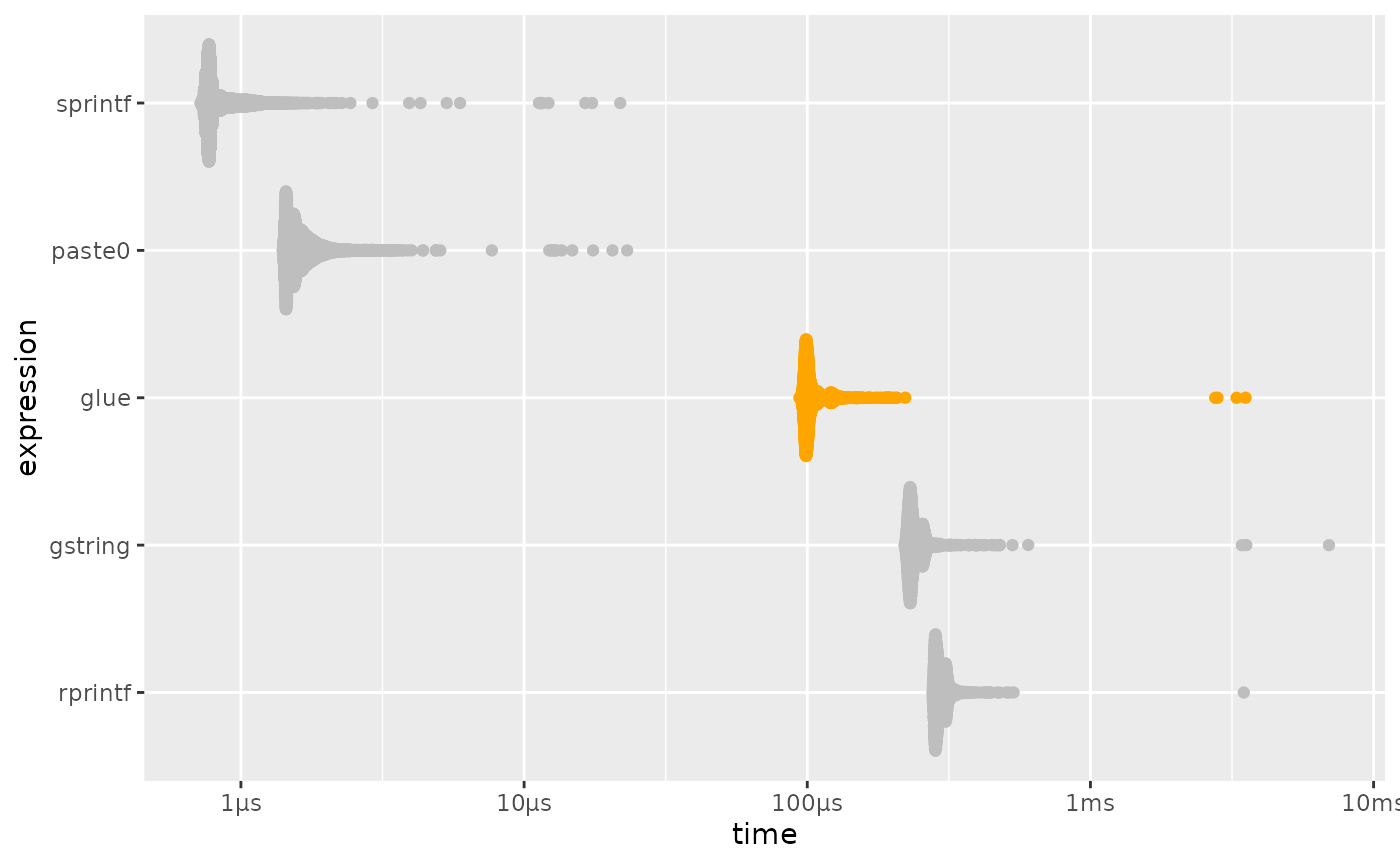
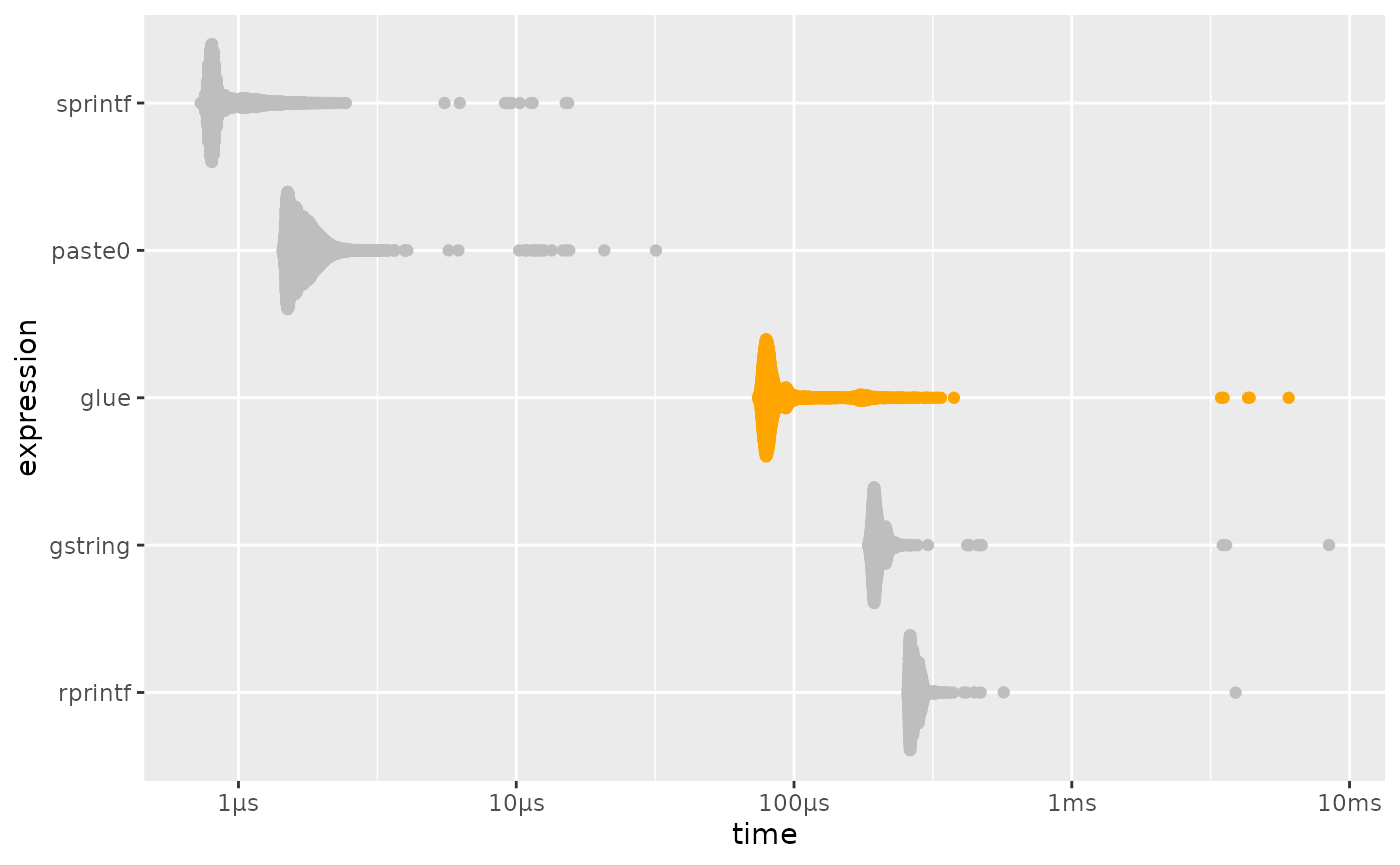
Deploying to gh-pages from @ tidyverse/glue@c6ecadb5d934827fc5afdf989714b82bf9872267 🚀

diff --git a/articles/speed.html b/articles/speed.html
@@ -87,7 +87,7 @@
       <img src="../logo.png" class="logo" alt=""><h1>Speed of glue</h1>
             
       
-      <small class="dont-index">Source: <a href="https://github.com/tidyverse/glue/blob/main/vignettes/articles/speed.Rmd" class="external-link"><code>vignettes/articles/speed.Rmd</code></a></small>
+      <small class="dont-index">Source: <a href="https://github.com/tidyverse/glue/blob/v1.8.1/vignettes/articles/speed.Rmd" class="external-link"><code>vignettes/articles/speed.Rmd</code></a></small>
       <div class="d-none name"><code>speed.Rmd</code></div>
     </div>
 
@@ -155,11 +155,11 @@ this benchmark, but is now formally marked as “superseded”, in favor of
 <span><span class="co">#&gt; <span style="color: #949494;"># A tibble: 5 × 6</span></span></span>
 <span><span class="co">#&gt;   expression      min   median `itr/sec` mem_alloc `gc/sec`</span></span>
 <span><span class="co">#&gt;   <span style="color: #949494; font-style: italic;">&lt;bch:expr&gt;</span> <span style="color: #949494; font-style: italic;">&lt;bch:tm&gt;</span> <span style="color: #949494; font-style: italic;">&lt;bch:tm&gt;</span>     <span style="color: #949494; font-style: italic;">&lt;dbl&gt;</span> <span style="color: #949494; font-style: italic;">&lt;bch:byt&gt;</span>    <span style="color: #949494; font-style: italic;">&lt;dbl&gt;</span></span></span>
-<span><span class="co">#&gt; <span style="color: #BCBCBC;">1</span> sprintf     721.1ns 781.15ns  1<span style="text-decoration: underline;">162</span>959.        0B     0   </span></span>
-<span><span class="co">#&gt; <span style="color: #BCBCBC;">2</span> paste0        1.4µs   1.56µs   <span style="text-decoration: underline;">604</span>291.        0B     0   </span></span>
-<span><span class="co">#&gt; <span style="color: #BCBCBC;">3</span> glue         93.9µs 100.34µs     <span style="text-decoration: underline;">9</span>599.  141.56KB     8.21</span></span>
-<span><span class="co">#&gt; <span style="color: #BCBCBC;">4</span> gstring     220.6µs 235.19µs     <span style="text-decoration: underline;">4</span>112.    2.43MB     6.17</span></span>
-<span><span class="co">#&gt; <span style="color: #BCBCBC;">5</span> rprintf     276.8µs 289.83µs     <span style="text-decoration: underline;">3</span>361.  504.06KB     2.01</span></span>
+<span><span class="co">#&gt; <span style="color: #BCBCBC;">1</span> sprintf    731.09ns 820.96ns  1<span style="text-decoration: underline;">098</span>310.        0B     0   </span></span>
+<span><span class="co">#&gt; <span style="color: #BCBCBC;">2</span> paste0       1.44µs   1.67µs   <span style="text-decoration: underline;">573</span>123.        0B     0   </span></span>
+<span><span class="co">#&gt; <span style="color: #BCBCBC;">3</span> glue        74.15µs  81.19µs    <span style="text-decoration: underline;">10</span>860.  141.56KB    10.5 </span></span>
+<span><span class="co">#&gt; <span style="color: #BCBCBC;">4</span> gstring    184.99µs 197.57µs     <span style="text-decoration: underline;">4</span>946.    2.43MB     6.19</span></span>
+<span><span class="co">#&gt; <span style="color: #BCBCBC;">5</span> rprintf    256.09µs 269.32µs     <span style="text-decoration: underline;">3</span>657.  504.06KB     2.02</span></span>
 <span></span>
 <span><span class="co"># plotting function defined in a hidden chunk</span></span>
 <span><span class="fu">plot_comparison</span><span class="op">(</span><span class="va">simple</span><span class="op">)</span></span></code></pre></div>
@@ -202,11 +202,11 @@ performance is much closer to that of <code><a href="https://rdrr.io/r/base/past
 <span><span class="co">#&gt; <span style="color: #949494;"># A tibble: 5 × 6</span></span></span>
 <span><span class="co">#&gt;   expression      min   median `itr/sec` mem_alloc `gc/sec`</span></span>
 <span><span class="co">#&gt;   <span style="color: #949494; font-style: italic;">&lt;bch:expr&gt;</span> <span style="color: #949494; font-style: italic;">&lt;bch:tm&gt;</span> <span style="color: #949494; font-style: italic;">&lt;bch:tm&gt;</span>     <span style="color: #949494; font-style: italic;">&lt;dbl&gt;</span> <span style="color: #949494; font-style: italic;">&lt;bch:byt&gt;</span>    <span style="color: #949494; font-style: italic;">&lt;dbl&gt;</span></span></span>
-<span><span class="co">#&gt; <span style="color: #BCBCBC;">1</span> sprintf      8.37ms   8.39ms     119.    781.3KB     4.17</span></span>
-<span><span class="co">#&gt; <span style="color: #BCBCBC;">2</span> paste0       8.41ms   8.44ms     118.    781.3KB     4.13</span></span>
-<span><span class="co">#&gt; <span style="color: #BCBCBC;">3</span> gstring     11.39ms  11.55ms      85.7    1.53MB     6.43</span></span>
-<span><span class="co">#&gt; <span style="color: #BCBCBC;">4</span> glue        12.57ms  12.93ms      77.6    2.29MB     7.05</span></span>
-<span><span class="co">#&gt; <span style="color: #BCBCBC;">5</span> rprintf     33.09ms  33.34ms      29.8    3.05MB     2.13</span></span>
+<span><span class="co">#&gt; <span style="color: #BCBCBC;">1</span> sprintf      8.81ms   8.86ms     112.    781.3KB     4.21</span></span>
+<span><span class="co">#&gt; <span style="color: #BCBCBC;">2</span> paste0        9.3ms   9.47ms     106.    781.3KB     2.04</span></span>
+<span><span class="co">#&gt; <span style="color: #BCBCBC;">3</span> gstring     11.98ms  12.51ms      80.0    1.53MB     6.49</span></span>
+<span><span class="co">#&gt; <span style="color: #BCBCBC;">4</span> glue         12.3ms  12.81ms      77.8    2.29MB     7.07</span></span>
+<span><span class="co">#&gt; <span style="color: #BCBCBC;">5</span> rprintf     29.06ms  29.18ms      33.9    3.05MB     4.52</span></span>
 <span></span>
 <span><span class="co"># plotting function defined in a hidden chunk</span></span>
 <span><span class="fu">plot_comparison</span><span class="op">(</span><span class="va">vectorized</span><span class="op">)</span></span></code></pre></div>

diff --git a/reference/glue_collapse.html b/reference/glue_collapse.html
@@ -55,7 +55,7 @@ object rather than a glue object."><meta property="og:image" content="https://gl
 <div class="row">
   <main id="main" class="col-md-9"><div class="page-header">
       <img src="../logo.png" class="logo" alt=""><h1>Collapse a character vector</h1>
-      <small class="dont-index">Source: <a href="https://github.com/tidyverse/glue/blob/main/R/glue.R" class="external-link"><code>R/glue.R</code></a>, <a href="https://github.com/tidyverse/glue/blob/main/R/sql.R" class="external-link"><code>R/sql.R</code></a></small>
+      <small class="dont-index">Source: <a href="https://github.com/tidyverse/glue/blob/v1.8.1/R/glue.R" class="external-link"><code>R/glue.R</code></a>, <a href="https://github.com/tidyverse/glue/blob/v1.8.1/R/sql.R" class="external-link"><code>R/sql.R</code></a></small>
       <div class="d-none name"><code>glue_collapse.Rd</code></div>
     </div>
 

diff --git a/reference/glue-package.html b/reference/glue-package.html
@@ -53,7 +53,7 @@ An implementation of interpreted string literals, inspired by Python's Literal S
 <div class="row">
   <main id="main" class="col-md-9"><div class="page-header">
       <img src="../logo.png" class="logo" alt=""><h1>glue: Interpreted String Literals</h1>
-      <small class="dont-index">Source: <a href="https://github.com/tidyverse/glue/blob/main/R/glue-package.R" class="external-link"><code>R/glue-package.R</code></a></small>
+      <small class="dont-index">Source: <a href="https://github.com/tidyverse/glue/blob/v1.8.1/R/glue-package.R" class="external-link"><code>R/glue-package.R</code></a></small>
       <div class="d-none name"><code>glue-package.Rd</code></div>
     </div>
 

diff --git a/reference/identity_transformer.html b/reference/identity_transformer.html
@@ -53,7 +53,7 @@ transformer."><meta property="og:image" content="https://glue.tidyverse.org/logo
 <div class="row">
   <main id="main" class="col-md-9"><div class="page-header">
       <img src="../logo.png" class="logo" alt=""><h1>Parse and Evaluate R code</h1>
-      <small class="dont-index">Source: <a href="https://github.com/tidyverse/glue/blob/main/R/transformer.R" class="external-link"><code>R/transformer.R</code></a></small>
+      <small class="dont-index">Source: <a href="https://github.com/tidyverse/glue/blob/v1.8.1/R/transformer.R" class="external-link"><code>R/transformer.R</code></a></small>
       <div class="d-none name"><code>identity_transformer.Rd</code></div>
     </div>
 

diff --git a/CODE_OF_CONDUCT.html b/CODE_OF_CONDUCT.html
@@ -51,7 +51,7 @@
 <div class="row">
   <main id="main" class="col-md-9"><div class="page-header">
       <img src="logo.png" class="logo" alt=""><h1>Contributor Covenant Code of Conduct</h1>
-      <small class="dont-index">Source: <a href="https://github.com/tidyverse/glue/blob/main/.github/CODE_OF_CONDUCT.md" class="external-link"><code>.github/CODE_OF_CONDUCT.md</code></a></small>
+      <small class="dont-index">Source: <a href="https://github.com/tidyverse/glue/blob/v1.8.1/.github/CODE_OF_CONDUCT.md" class="external-link"><code>.github/CODE_OF_CONDUCT.md</code></a></small>
     </div>
 
 <div id="contributor-covenant-code-of-conduct" class="section level1">

diff --git a/reference/glue_sql.html b/reference/glue_sql.html
@@ -85,7 +85,7 @@ SQL IN Operator."><meta property="og:image" content="https://glue.tidyverse.org/
 <div class="row">
   <main id="main" class="col-md-9"><div class="page-header">
       <img src="../logo.png" class="logo" alt=""><h1>Interpolate strings with SQL escaping</h1>
-      <small class="dont-index">Source: <a href="https://github.com/tidyverse/glue/blob/main/R/sql.R" class="external-link"><code>R/sql.R</code></a></small>
+      <small class="dont-index">Source: <a href="https://github.com/tidyverse/glue/blob/v1.8.1/R/sql.R" class="external-link"><code>R/sql.R</code></a></small>
       <div class="d-none name"><code>glue_sql.Rd</code></div>
     </div>
 

diff --git a/reference/glue_col.html b/reference/glue_col.html
@@ -73,7 +73,7 @@ character, specify .literal = TRUE."><meta property="og:image" content="https://
 <div class="row">
   <main id="main" class="col-md-9"><div class="page-header">
       <img src="../logo.png" class="logo" alt=""><h1>Construct strings with color</h1>
-      <small class="dont-index">Source: <a href="https://github.com/tidyverse/glue/blob/main/R/color.R" class="external-link"><code>R/color.R</code></a></small>
+      <small class="dont-index">Source: <a href="https://github.com/tidyverse/glue/blob/v1.8.1/R/color.R" class="external-link"><code>R/color.R</code></a></small>
       <div class="d-none name"><code>glue_col.Rd</code></div>
     </div>
 

diff --git a/reference/quoting.html b/reference/quoting.html
@@ -55,7 +55,7 @@ base::encodeString()."><meta property="og:image" content="https://glue.tidyverse
 <div class="row">
   <main id="main" class="col-md-9"><div class="page-header">
       <img src="../logo.png" class="logo" alt=""><h1>Quoting operators</h1>
-      <small class="dont-index">Source: <a href="https://github.com/tidyverse/glue/blob/main/R/quoting.R" class="external-link"><code>R/quoting.R</code></a></small>
+      <small class="dont-index">Source: <a href="https://github.com/tidyverse/glue/blob/v1.8.1/R/quoting.R" class="external-link"><code>R/quoting.R</code></a></small>
       <div class="d-none name"><code>quoting.Rd</code></div>
     </div>
 

diff --git a/reference/glue.html b/reference/glue.html
@@ -55,7 +55,7 @@ from the first and last lines are automatically trimmed."><meta property="og:ima
 <div class="row">
   <main id="main" class="col-md-9"><div class="page-header">
       <img src="../logo.png" class="logo" alt=""><h1>Format and interpolate a string</h1>
-      <small class="dont-index">Source: <a href="https://github.com/tidyverse/glue/blob/main/R/glue.R" class="external-link"><code>R/glue.R</code></a></small>
+      <small class="dont-index">Source: <a href="https://github.com/tidyverse/glue/blob/v1.8.1/R/glue.R" class="external-link"><code>R/glue.R</code></a></small>
       <div class="d-none name"><code>glue.Rd</code></div>
     </div>
 

diff --git a/reference/glue_safe.html b/reference/glue_safe.html
@@ -59,7 +59,7 @@ normal functions would allow an attacker to execute arbitrary code."><meta prope
 <div class="row">
   <main id="main" class="col-md-9"><div class="page-header">
       <img src="../logo.png" class="logo" alt=""><h1>Safely interpolate strings</h1>
-      <small class="dont-index">Source: <a href="https://github.com/tidyverse/glue/blob/main/R/safe.R" class="external-link"><code>R/safe.R</code></a></small>
+      <small class="dont-index">Source: <a href="https://github.com/tidyverse/glue/blob/v1.8.1/R/safe.R" class="external-link"><code>R/safe.R</code></a></small>
       <div class="d-none name"><code>glue_safe.Rd</code></div>
     </div>
 

diff --git a/reference/as_glue.html b/reference/as_glue.html
@@ -57,7 +57,7 @@ the addition operator.'><meta property="og:image" content="https://glue.tidyvers
 <div class="row">
   <main id="main" class="col-md-9"><div class="page-header">
       <img src="../logo.png" class="logo" alt=""><h1>Coerce object to glue</h1>
-      <small class="dont-index">Source: <a href="https://github.com/tidyverse/glue/blob/main/R/glue.R" class="external-link"><code>R/glue.R</code></a></small>
+      <small class="dont-index">Source: <a href="https://github.com/tidyverse/glue/blob/v1.8.1/R/glue.R" class="external-link"><code>R/glue.R</code></a></small>
       <div class="d-none name"><code>as_glue.Rd</code></div>
     </div>
 

diff --git a/reference/trim.html b/reference/trim.html
@@ -67,7 +67,7 @@ Lines can be continued across newlines by using \\.
 <div class="row">
   <main id="main" class="col-md-9"><div class="page-header">
       <img src="../logo.png" class="logo" alt=""><h1>Trim a character vector</h1>
-      <small class="dont-index">Source: <a href="https://github.com/tidyverse/glue/blob/main/R/glue.R" class="external-link"><code>R/glue.R</code></a></small>
+      <small class="dont-index">Source: <a href="https://github.com/tidyverse/glue/blob/v1.8.1/R/glue.R" class="external-link"><code>R/glue.R</code></a></small>
       <div class="d-none name"><code>trim.Rd</code></div>
     </div>
 
